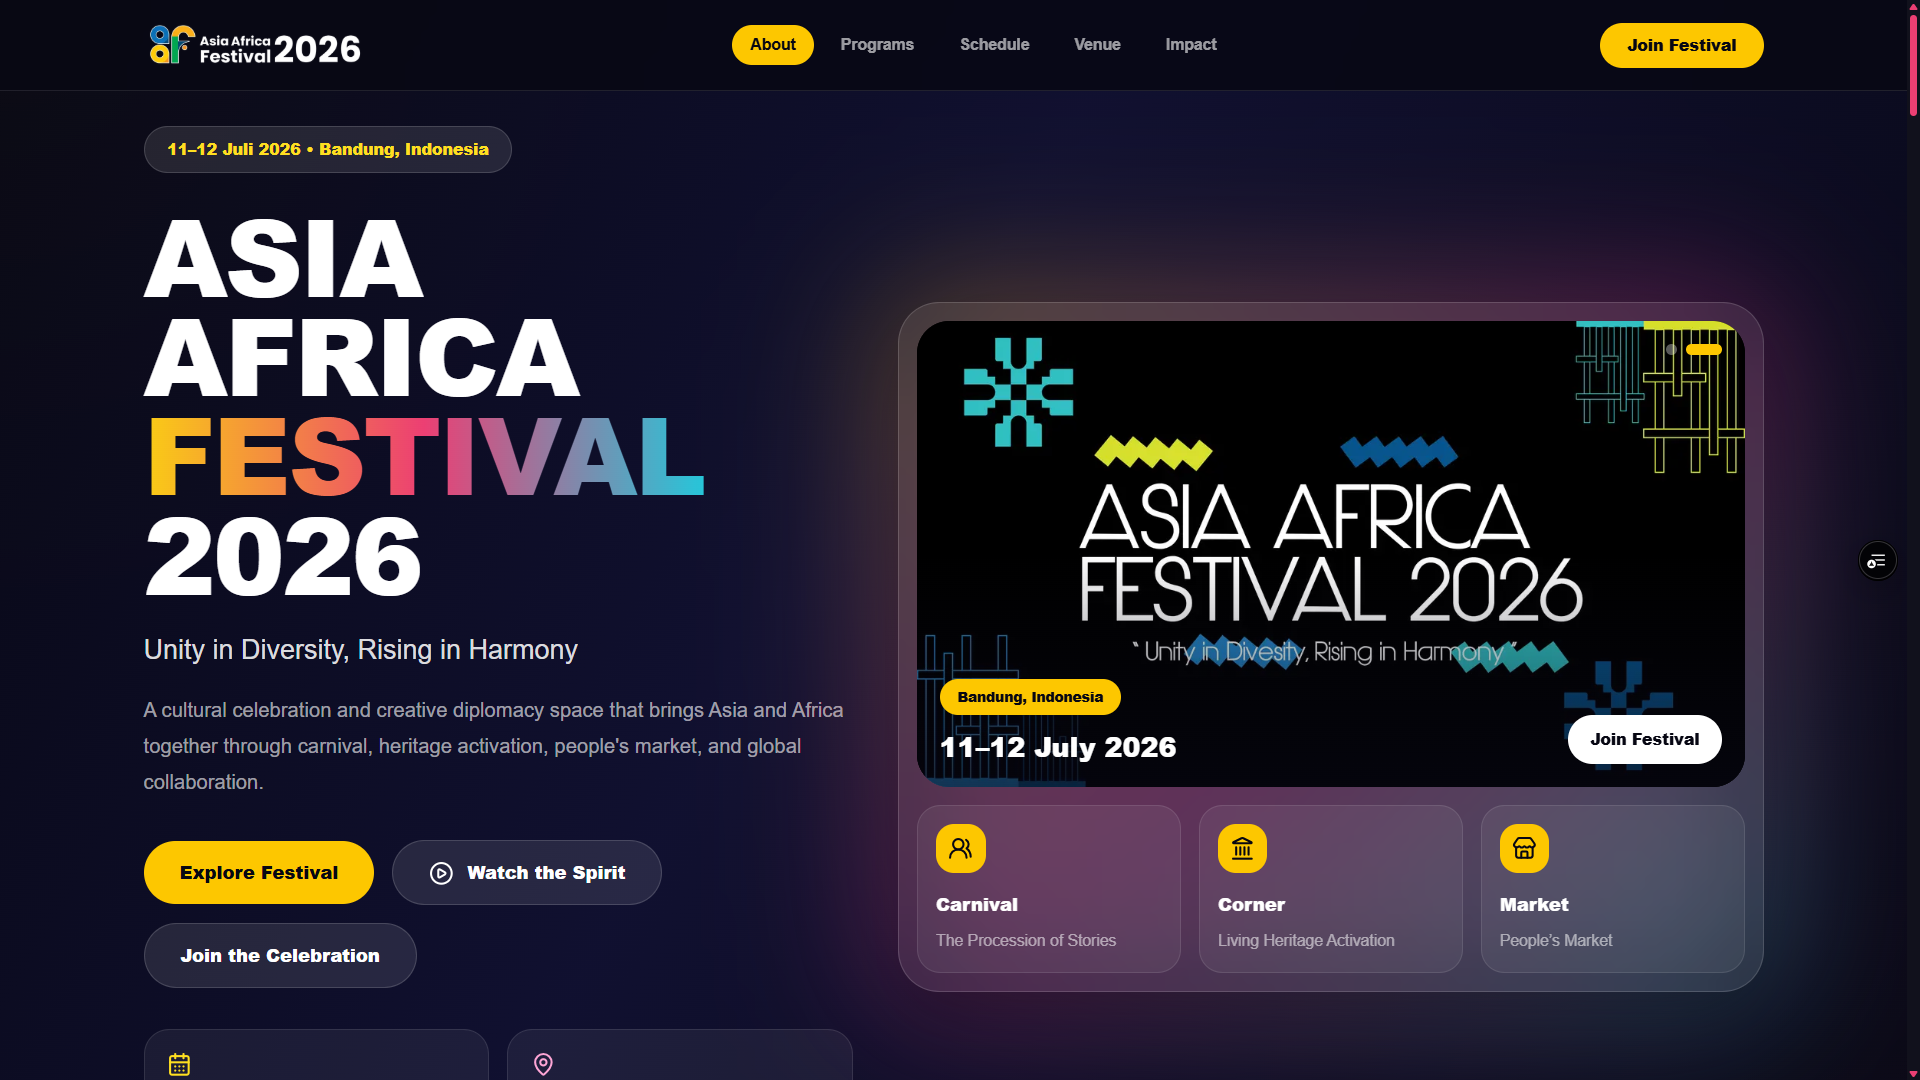
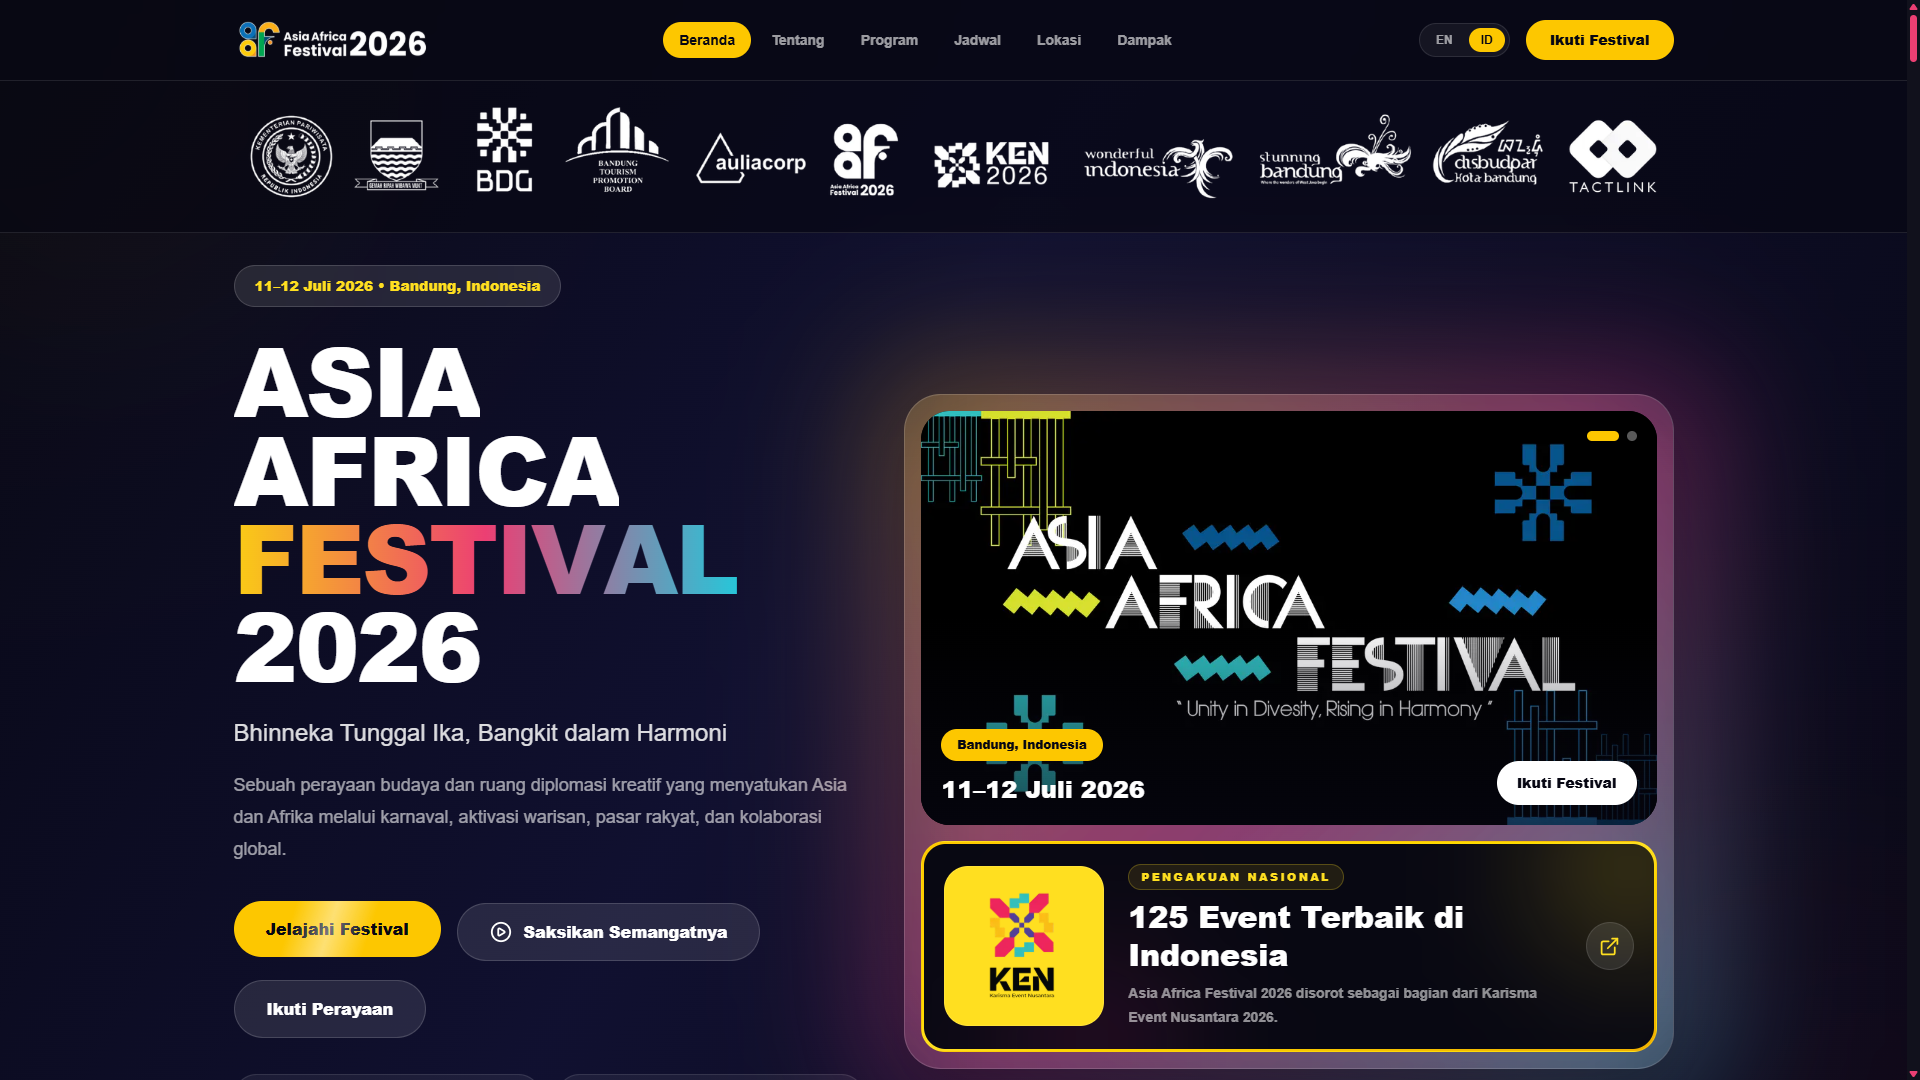
fix: center mobile cards and update navbar text

diff --git a/src/components/ProjectsMobile.tsx b/src/components/ProjectsMobile.tsx
@@ -27,7 +27,7 @@ export default function ProjectsMobile({ projects }: { projects: Project[] }) {
         {projects.map((project) => (
           <BorderGlow
             key={project.title}
-            className="group block min-w-[90%] snap-start flex-col h-full glass-card hover:bg-crimson transition-colors duration-300 p-4"
+            className="group block min-w-[90%] snap-center flex-col h-full glass-card hover:bg-crimson transition-colors duration-300 p-4"
           >
           <Link href={`/projects/${project.slug}`} className="block relative w-full aspect-video brutalist-border mb-6 overflow-hidden glass-card rounded-2xl">
             <Image